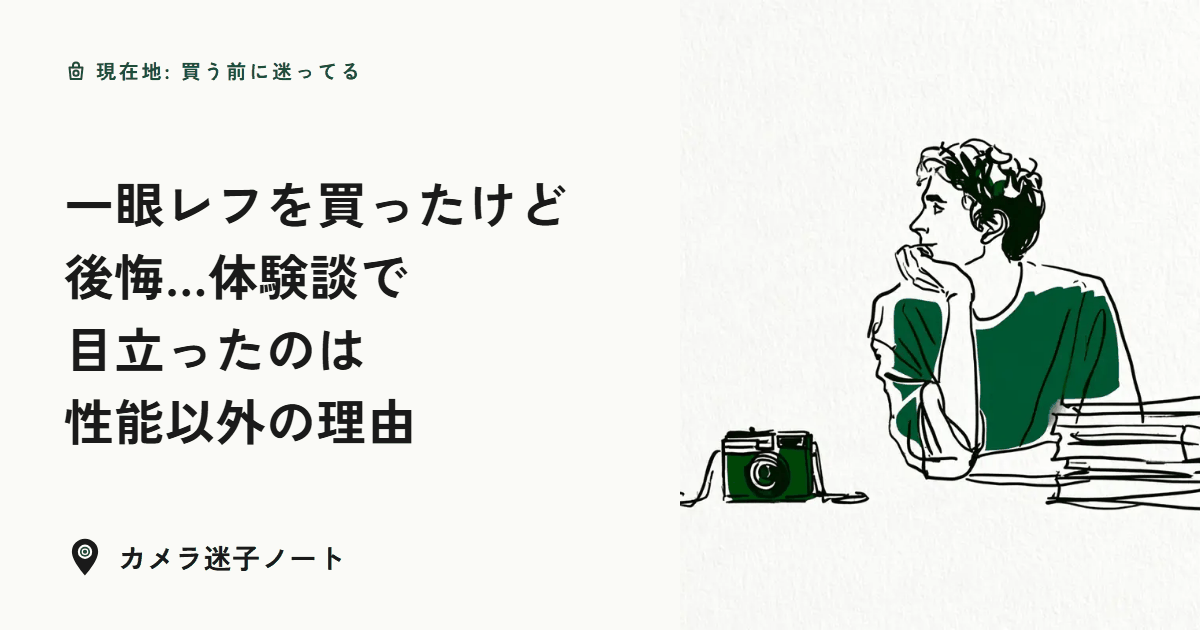
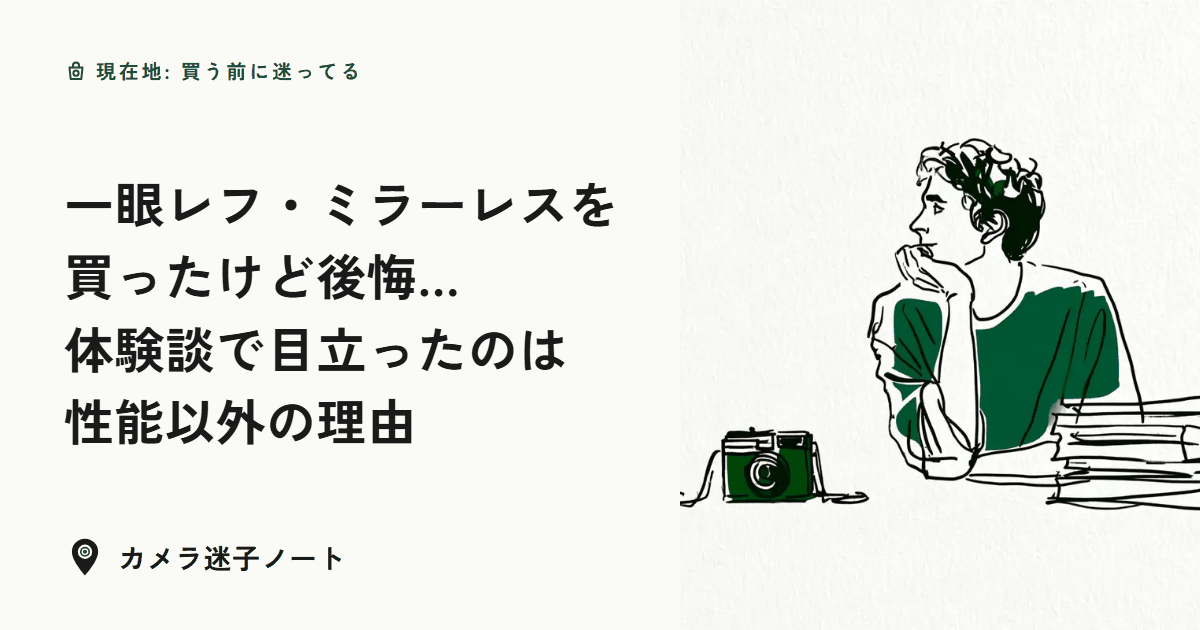
Retitle koukai-koe to include mirrorless, link erabikata from koukai-koe/yametoke/omoi, omoi description mentions spec weights

Changed region(s): [[0.0308, 0.5127, 0.4625, 0.6032], [0.0308, 0.3921, 0.37, 0.4825], [0.2158, 0.2714, 0.5242, 0.3619]]

diff --git a/koukai-koe/index.html b/koukai-koe/index.html
@@ -4,12 +4,12 @@
 <meta charset="UTF-8">
 <meta name="viewport" content="width=device-width, initial-scale=1.0">
 <meta http-equiv="Content-Security-Policy" content="default-src 'self'; script-src 'self' 'unsafe-inline' https://www.googletagmanager.com; style-src 'self' 'unsafe-inline' https://fonts.googleapis.com; font-src https://fonts.gstatic.com; img-src 'self' data: https://*.google-analytics.com https://www.googletagmanager.com https://*.a8.net; connect-src 'self' https://www.google-analytics.com https://*.google-analytics.com https://*.analytics.google.com https://www.googletagmanager.com; object-src 'none'; base-uri 'self'">
-<title>一眼レフを買ったけど後悔…体験談で目立ったのは性能以外の理由|カメラ迷子ノート</title>
+<title>一眼レフ・ミラーレスを買ったけど後悔…体験談で目立ったのは性能以外の理由|カメラ迷子ノート</title>
 <meta name="description" content="一眼レフ・ミラーレスを買って後悔した人の体験談を読むと、目立ったのは性能より買った時の気持ちや暮らしとの合い方でした。買う前に考えたいことと、買ったあとの選択肢も。運営者はカメラを持たず、声を集めて整理しています。">
 <link rel="canonical" href="https://uuhai0625.github.io/camera-maigo-note/koukai-koe/">
 <meta property="og:type" content="article">
 <meta property="og:site_name" content="カメラ迷子ノート">
-<meta property="og:title" content="一眼レフを買ったけど後悔…体験談で目立ったのは性能以外の理由|カメラ迷子ノート">
+<meta property="og:title" content="一眼レフ・ミラーレスを買ったけど後悔…体験談で目立ったのは性能以外の理由|カメラ迷子ノート">
 <meta property="og:description" content="一眼レフ・ミラーレスを買って後悔した人の体験談を読むと、目立ったのは性能より買った時の気持ちや暮らしとの合い方でした。買う前に考えたいことと、買ったあとの選択肢も。運営者はカメラを持たず、声を集めて整理しています。">
 <meta property="og:url" content="https://uuhai0625.github.io/camera-maigo-note/koukai-koe/">
 <meta property="og:locale" content="ja_JP">
@@ -27,7 +27,7 @@
 <link rel="stylesheet" href="../style.css">
 <script src="../ga.js" defer></script>
 <script type="application/ld+json">
-{"@context": "https://schema.org", "@graph": [{"@type": "Article", "headline": "一眼レフを買ったけど後悔…体験談で目立ったのは性能以外の理由", "description": "一眼レフ・ミラーレスを買って後悔した人の体験談を読むと、目立ったのは性能より買った時の気持ちや暮らしとの合い方でした。買う前に考えたいことと、買ったあとの選択肢も。運営者はカメラを持たず、声を集めて整理しています。", "url": "https://uuhai0625.github.io/camera-maigo-note/koukai-koe/", "mainEntityOfPage": "https://uuhai0625.github.io/camera-maigo-note/koukai-koe/", "datePublished": "2026-10-01T09:00:00+09:00", "dateModified": "2026-10-15T09:00:00+09:00", "inLanguage": "ja", "author": {"@type": "Organization", "name": "カメラ迷子ノート", "url": "https://uuhai0625.github.io/camera-maigo-note/about/"}, "publisher": {"@type": "Organization", "name": "カメラ迷子ノート", "url": "https://uuhai0625.github.io/camera-maigo-note/", "logo": {"@type": "ImageObject", "url": "https://uuhai0625.github.io/camera-maigo-note/images/logo-square-512.png"}}, "image": "https://uuhai0625.github.io/camera-maigo-note/koukai-koe/ogp.png"}, {"@type": "BreadcrumbList", "itemListElement": [{"@type": "ListItem", "position": 1, "name": "カメラ迷子ノート", "item": "https://uuhai0625.github.io/camera-maigo-note/"}, {"@type": "ListItem", "position": 2, "name": "買う前に迷ってる", "item": "https://uuhai0625.github.io/camera-maigo-note/#before"}, {"@type": "ListItem", "position": 3, "name": "一眼レフを買ったけど後悔…体験談で目立ったのは性能以外の理由", "item": "https://uuhai0625.github.io/camera-maigo-note/koukai-koe/"}]}]}
+{"@context": "https://schema.org", "@graph": [{"@type": "Article", "headline": "一眼レフ・ミラーレスを買ったけど後悔…体験談で目立ったのは性能以外の理由", "description": "一眼レフ・ミラーレスを買って後悔した人の体験談を読むと、目立ったのは性能より買った時の気持ちや暮らしとの合い方でした。買う前に考えたいことと、買ったあとの選択肢も。運営者はカメラを持たず、声を集めて整理しています。", "url": "https://uuhai0625.github.io/camera-maigo-note/koukai-koe/", "mainEntityOfPage": "https://uuhai0625.github.io/camera-maigo-note/koukai-koe/", "datePublished": "2026-10-01T09:00:00+09:00", "dateModified": "2026-10-15T09:00:00+09:00", "inLanguage": "ja", "author": {"@type": "Organization", "name": "カメラ迷子ノート", "url": "https://uuhai0625.github.io/camera-maigo-note/about/"}, "publisher": {"@type": "Organization", "name": "カメラ迷子ノート", "url": "https://uuhai0625.github.io/camera-maigo-note/", "logo": {"@type": "ImageObject", "url": "https://uuhai0625.github.io/camera-maigo-note/images/logo-square-512.png"}}, "image": "https://uuhai0625.github.io/camera-maigo-note/koukai-koe/ogp.png"}, {"@type": "BreadcrumbList", "itemListElement": [{"@type": "ListItem", "position": 1, "name": "カメラ迷子ノート", "item": "https://uuhai0625.github.io/camera-maigo-note/"}, {"@type": "ListItem", "position": 2, "name": "買う前に迷ってる", "item": "https://uuhai0625.github.io/camera-maigo-note/#before"}, {"@type": "ListItem", "position": 3, "name": "一眼レフ・ミラーレスを買ったけど後悔…体験談で目立ったのは性能以外の理由", "item": "https://uuhai0625.github.io/camera-maigo-note/koukai-koe/"}]}]}
 </script>
 </head>
 <body>
@@ -45,7 +45,7 @@
 <p class="breadcrumb"><a href="../">カメラ迷子ノート</a> › <a href="../#before">買う前に迷ってる</a></p>
 <p class="ad-notice">この記事には広告(アフィリエイトリンク)が含まれます。</p>
 <p class="here"><svg class="icon" width="14" height="14" viewBox="0 0 24 24" fill="none" stroke="currentColor" stroke-width="2" stroke-linecap="round" stroke-linejoin="round" aria-hidden="true"><path d="M5.5 8.5h13l-1.2 11.5H6.7z"/><path d="M9 8.5V6.5a3 3 0 0 1 6 0v2"/><circle cx="12" cy="14.2" r="2.6"/></svg>現在地: 買う前に迷ってる</p>
-<h1>一眼レフを買ったけど後悔…体験談で目立ったのは性能以外の理由</h1>
+<h1>一眼レフ・ミラーレスを買ったけど後悔…体験談で目立ったのは性能以外の理由</h1>
 <p class="meta">公開 2026-10-01 / 更新 2026-10-15</p>
 <figure class="pic eyecatch"><img src="../images/illust/eye-koukai.webp" srcset="../images/illust/eye-koukai-m.webp 720w, ../images/illust/eye-koukai.webp 1200w" sizes="(max-width: 760px) calc(100vw - 32px), 720px" width="1200" height="800" alt="本の横に置いたままのカメラを見ながら、ほおづえをついて考えている人の線画イラスト" fetchpriority="high" decoding="async"></figure>
 <p>一眼レフやミラーレスを買って後悔した人の体験談を読んでいくと、性能が足りなかったという話は少なく、買った時の気持ちや、暮らしとの合い方の話が目立ちました。買うか迷っている人にも、買ってしまって迷っている人にも向けて、体験談と一般論の記事を合わせて11件、理由を分けて数えました。</p>
@@ -133,6 +133,7 @@
 <h2 id="kaumae">買う前に確かめておきたいこと(体験談を質問にしました)</h2>
 <p>体験談の人たちが振り返っていたことを、自分への質問に変えてみました。答えが出なくても、それ自体が1つの材料です。誰の振り返りから来たかを添えています。最初の一台を何で決めたか(見た目・安さ・店頭・すすめなど決め手ごとの声と、始める順番)は、<a href="../saisho-ichidai/">初めてのカメラ、最初の一台は何で決めた?</a>にまとめました。</p>
 <ul><li><strong>憧れの先に、撮ってみたいものが1つ浮かぶか。</strong> 憧れやブームで買った人が8人中4人いました。憧れそのものは悪くないのですが、その先に撮りたいものがあったかどうかは、4人の話を読むと気になるところです。</li><li><strong>使わない日が続いても、カメラを見て平気か。</strong> すぎっちさんの後悔は、使わなかった自分に向いていました。毎日撮る前提を置かず、月に数回でも許せるかを先に考えてみる、という順番です。</li><li><strong>カバンに入れて出かける場面を、1つ思い浮かべてみる。</strong> 重さで持ち出さなくなった人が4人いました。ヒガシーサーさんは、持ち出さなかった日の写真は1枚も残らない、という考えから、写りより持ち出す回数を優先しています。</li><li><strong>スマホで困った瞬間が、1つ浮かぶか。</strong> カメラを続けているヒガシーサーさんでも、普段の記録の9割はスマホだそうです。スマホとの差の話は、<a href="../smartphone-jubun/">スマホで十分、一眼はいらない?</a>の記事に譲ります。</li><li><strong>レンズまで入れた総額を、先に決めてみる。</strong> レンズを買い足す余裕がなかった人が体験談にも、総額で考えるべきという声が一般論にもありました。ヒガシーサーさんは、本体とレンズ2本までで上限を決める派です。周辺の小物は、<a href="../accessory/">いらなかった声も品目別に</a>まとめました。</li><li><strong>店頭で手に取って、構えてみたか。</strong> 2017年の質問者は、大きさと見た目に後悔しました。同じ相談の回答者は、かさばるかは個人差なので店で実機を触る、と助言しています。</li><li><strong>小さいカメラで足りないか、先に考えてみる。</strong> 2017年の質問者は、旅先の何気ない写真が中心ならコンデジで足りたかもしれない、と振り返っています。</li><li><strong>生活が変わっても、持ち続けたいか。</strong> 新しい趣味や就職で使わなくなった人がいました。数年先の自分を少しだけ想像してみるのも、1つの材料です。</li></ul>
+<p>買う前に確かめることを、スマホで足りるか・続きそうか・重さ・決め手・機種・中古の順に並べたページもあります(<a href="../erabikata/">カメラを買うか迷ったら読む順番</a>)。</p>
 <h2>もう買って後悔している人へ:体験談の人たちがしたこと</h2>
 <figure class="pic"><img src="../images/photo/koukai-tana.webp" srcset="../images/photo/koukai-tana-m.webp 720w, ../images/photo/koukai-tana.webp 1200w" sizes="(max-width: 760px) calc(100vw - 32px), 720px" width="1200" height="800" alt="棚に並べて置かれたカメラ" loading="lazy" decoding="async"><figcaption>棚に置かれたカメラ。 イメージ写真: <a href="https://unsplash.com/photos/s1TgBqg62OU" target="_blank" rel="noopener">Art Lasovsky / Unsplash</a></figcaption></figure>
 <p>もう買ってしまって迷っている人向けに、体験談の人たちがそのあとどうしたかを並べます。こういう道があった、という並べ方です。</p>

diff --git a/omoi/index.html b/omoi/index.html
@@ -5,12 +5,12 @@
 <meta name="viewport" content="width=device-width, initial-scale=1.0">
 <meta http-equiv="Content-Security-Policy" content="default-src 'self'; script-src 'self' 'unsafe-inline' https://www.googletagmanager.com; style-src 'self' 'unsafe-inline' https://fonts.googleapis.com; font-src https://fonts.gstatic.com; img-src 'self' data: https://*.google-analytics.com https://www.googletagmanager.com https://*.a8.net; connect-src 'self' https://www.google-analytics.com https://*.google-analytics.com https://*.analytics.google.com https://www.googletagmanager.com; object-src 'none'; base-uri 'self'">
 <title>一眼レフが重くて使わなくなった…軽くしても持ち歩かない人も|カメラ迷子ノート</title>
-<meta name="description" content="一眼レフが重くて使わなくなった人のその後は、軽い機種でも持ち歩かなかった人も、撮る日だけ持つ使い分けの人もいました。置いておいて戻った人、売った人、買い戻した人の声と、売る前・買う前に確かめることも。">
+<meta name="description" content="一眼レフが重くて使わなくなった人のその後は、軽い機種でも持ち歩かなかった人も、撮る日だけ持つ使い分けの人もいました。置いておいて戻った人、売った人、買い戻した人の声と、仕様表の重さ(バッテリー込み・本体のみ)の見方、売る前・買う前に確かめることも。">
 <link rel="canonical" href="https://uuhai0625.github.io/camera-maigo-note/omoi/">
 <meta property="og:type" content="article">
 <meta property="og:site_name" content="カメラ迷子ノート">
 <meta property="og:title" content="一眼レフが重くて使わなくなった…軽くしても持ち歩かない人も|カメラ迷子ノート">
-<meta property="og:description" content="一眼レフが重くて使わなくなった人のその後は、軽い機種でも持ち歩かなかった人も、撮る日だけ持つ使い分けの人もいました。置いておいて戻った人、売った人、買い戻した人の声と、売る前・買う前に確かめることも。">
+<meta property="og:description" content="一眼レフが重くて使わなくなった人のその後は、軽い機種でも持ち歩かなかった人も、撮る日だけ持つ使い分けの人もいました。置いておいて戻った人、売った人、買い戻した人の声と、仕様表の重さ(バッテリー込み・本体のみ)の見方、売る前・買う前に確かめることも。">
 <meta property="og:url" content="https://uuhai0625.github.io/camera-maigo-note/omoi/">
 <meta property="og:locale" content="ja_JP">
 <meta property="og:image" content="https://uuhai0625.github.io/camera-maigo-note/omoi/ogp.png">
@@ -27,7 +27,7 @@
 <link rel="stylesheet" href="../style.css">
 <script src="../ga.js" defer></script>
 <script type="application/ld+json">
-{"@context": "https://schema.org", "@graph": [{"@type": "Article", "headline": "一眼レフが重くて使わなくなった…軽くしても持ち歩かない人も", "description": "一眼レフが重くて使わなくなった人のその後は、軽い機種でも持ち歩かなかった人も、撮る日だけ持つ使い分けの人もいました。置いておいて戻った人、売った人、買い戻した人の声と、売る前・買う前に確かめることも。", "url": "https://uuhai0625.github.io/camera-maigo-note/omoi/", "mainEntityOfPage": "https://uuhai0625.github.io/camera-maigo-note/omoi/", "datePublished": "2026-10-03T09:00:00+09:00", "dateModified": "2026-10-14T09:00:00+09:00", "inLanguage": "ja", "author": {"@type": "Organization", "name": "カメラ迷子ノート", "url": "https://uuhai0625.github.io/camera-maigo-note/about/"}, "publisher": {"@type": "Organization", "name": "カメラ迷子ノート", "url": "https://uuhai0625.github.io/camera-maigo-note/", "logo": {"@type": "ImageObject", "url": "https://uuhai0625.github.io/camera-maigo-note/images/logo-square-512.png"}}, "image": "https://uuhai0625.github.io/camera-maigo-note/omoi/ogp.png"}, {"@type": "BreadcrumbList", "itemListElement": [{"@type": "ListItem", "position": 1, "name": "カメラ迷子ノート", "item": "https://uuhai0625.github.io/camera-maigo-note/"}, {"@type": "ListItem", "position": 2, "name": "買ったけど使えてない", "item": "https://uuhai0625.github.io/camera-maigo-note/#stuck"}, {"@type": "ListItem", "position": 3, "name": "一眼レフが重くて使わなくなった…軽くしても持ち歩かない人も", "item": "https://uuhai0625.github.io/camera-maigo-note/omoi/"}]}]}
+{"@context": "https://schema.org", "@graph": [{"@type": "Article", "headline": "一眼レフが重くて使わなくなった…軽くしても持ち歩かない人も", "description": "一眼レフが重くて使わなくなった人のその後は、軽い機種でも持ち歩かなかった人も、撮る日だけ持つ使い分けの人もいました。置いておいて戻った人、売った人、買い戻した人の声と、仕様表の重さ(バッテリー込み・本体のみ)の見方、売る前・買う前に確かめることも。", "url": "https://uuhai0625.github.io/camera-maigo-note/omoi/", "mainEntityOfPage": "https://uuhai0625.github.io/camera-maigo-note/omoi/", "datePublished": "2026-10-03T09:00:00+09:00", "dateModified": "2026-10-15T09:00:00+09:00", "inLanguage": "ja", "author": {"@type": "Organization", "name": "カメラ迷子ノート", "url": "https://uuhai0625.github.io/camera-maigo-note/about/"}, "publisher": {"@type": "Organization", "name": "カメラ迷子ノート", "url": "https://uuhai0625.github.io/camera-maigo-note/", "logo": {"@type": "ImageObject", "url": "https://uuhai0625.github.io/camera-maigo-note/images/logo-square-512.png"}}, "image": "https://uuhai0625.github.io/camera-maigo-note/omoi/ogp.png"}, {"@type": "BreadcrumbList", "itemListElement": [{"@type": "ListItem", "position": 1, "name": "カメラ迷子ノート", "item": "https://uuhai0625.github.io/camera-maigo-note/"}, {"@type": "ListItem", "position": 2, "name": "買ったけど使えてない", "item": "https://uuhai0625.github.io/camera-maigo-note/#stuck"}, {"@type": "ListItem", "position": 3, "name": "一眼レフが重くて使わなくなった…軽くしても持ち歩かない人も", "item": "https://uuhai0625.github.io/camera-maigo-note/omoi/"}]}]}
 </script>
 </head>
 <body>
@@ -46,10 +46,10 @@
 <p class="ad-notice">この記事には広告(アフィリエイトリンク)が含まれます。</p>
 <p class="here"><svg class="icon" width="14" height="14" viewBox="0 0 24 24" fill="none" stroke="currentColor" stroke-width="2" stroke-linecap="round" stroke-linejoin="round" aria-hidden="true"><path d="M4 8h3l1.6-2.2h6.8L17 8h3a1 1 0 0 1 1 1v9a1 1 0 0 1-1 1H4a1 1 0 0 1-1-1V9a1 1 0 0 1 1-1z"/><circle cx="12" cy="13" r="3.8"/><path d="M11 11.6v2.8M13 11.6v2.8"/></svg>現在地: 買ったけど使えてない</p>
 <h1>一眼レフが重くて使わなくなった…軽くしても持ち歩かない人も</h1>
-<p class="meta">公開 2026-10-03 / 更新 2026-10-14</p>
+<p class="meta">公開 2026-10-03 / 更新 2026-10-15</p>
 <figure class="pic eyecatch"><img src="../images/illust/eye-omoi.webp" srcset="../images/illust/eye-omoi-m.webp 720w, ../images/illust/eye-omoi.webp 1200w" sizes="(max-width: 760px) calc(100vw - 32px), 720px" width="1200" height="800" alt="大きなレンズを付けたカメラを床に置いたまま、トートバッグだけで出かけていく人の線画イラスト" fetchpriority="high" decoding="async"></figure>
 <p>一眼レフ(鏡を使ってのぞくタイプのカメラ。<a class="term" href="../yougo/#ichigan-mirrorless">言葉の意味</a>)が重くて使わなくなった人のその後を読むと、軽い機種に替えても持ち歩かなかった人がいました。撮りに行く日だけ重い方を持つ使い分けの人も、重いまま続けている人もいます。知恵袋・価格.com・note・個人ブログで、重いと感じた人のその後を探して読みました(私はカメラを持っていません)。</p>
-<p>すでに持っている人は<a href="#motteiru">売る?置いておく?</a>へ、買う前の人は<a href="#kaumae">確かめること</a>へ、全体は<a href="#wakaremichi">早見表</a>へどうぞ。</p>
+<p>すでに持っている人は<a href="#motteiru">売る?置いておく?</a>へ、買う前の人は<a href="#kaumae">確かめること</a>へ、全体は<a href="#wakaremichi">早見表</a>へどうぞ。重さ以外も含めて買う前に確かめることは、<a href="../erabikata/">カメラを買うか迷ったら読む順番</a>に並べています。</p>
 <h2 id="wakaremichi">重くて使わなくなった人のその後は7通り(早見表)</h2>
 <figure class="fig">
   <svg viewBox="0 0 340 508" role="img" aria-label="重いと感じたあとのその後を7つに分けた図。目的の日だけ重い方を持つ、軽いカメラに替えて続いた、軽くしてもまた分かれた、重くても続けている、置いておいてまた使い始めた(理由は重さ以外の2人)、売って身軽になった、手放して後悔・買い戻した(理由は重さ以外)。分け方は私の読み方。">
@@ -215,7 +215,7 @@
 <p>何グラムなら持ち歩くかは、人で違いました。m310さんは約1kgの一眼レフを持ち歩き、Lifewareさんの理想はコンデジで300g前後、ミラーレスはレンズ込み500g前後が上限です。重いのがボディなのか、レンズなのか、バッグから出す気分なのかも、人で違っていました。次に重いと感じた日に、自分はそのどれなのかを1回確かめてみると、<a href="#wakaremichi">冒頭の表</a>のどの行に近いかが見えてくると思います。</p>
 <section class="next" aria-labelledby="next-h">
   <h2 id="next-h">次に読むなら</h2>
-  <ul><li><a href="../koukai-koe/">一眼レフを買ったけど後悔…体験談で目立ったのは性能以外の理由</a></li><li><a href="../accessory/">カメラアクセサリーは初心者に必要?いらなかった声も品目別に</a></li><li><a href="../#stuck">「買ったけど使えてない」の記事をもっと見る</a></li></ul>
+  <ul><li><a href="../koukai-koe/">一眼レフ・ミラーレスを買ったけど後悔…体験談で目立ったのは性能以外の理由</a></li><li><a href="../accessory/">カメラアクセサリーは初心者に必要?いらなかった声も品目別に</a></li><li><a href="../#stuck">「買ったけど使えてない」の記事をもっと見る</a></li></ul>
 </section>
 <h2 id="yonda">この記事で読んだ37件</h2>
 <p>本文で使った29件、41人の数には入れたが本文では使わなかった3件、持ち方の相談の確認に読んだ4件、事業者1件に分けています。</p>

diff --git a/saisho-ichidai/index.html b/saisho-ichidai/index.html
@@ -49,7 +49,7 @@
 <p class="meta">公開 2026-10-03 / 更新 2026-10-15</p>
 <figure class="pic eyecatch"><img src="../images/illust/eye-saisho.webp" srcset="../images/illust/eye-saisho-m.webp 720w, ../images/illust/eye-saisho.webp 1200w" sizes="(max-width: 760px) calc(100vw - 32px), 720px" width="1200" height="800" alt="机に並べた2台のカメラとスマホを前に、ほおづえをついて考えている人の線画イラスト" fetchpriority="high" decoding="async"></figure>
 <p>初めてのカメラ、最初の一台を何で決めたかと、その後どうなったかを、64人分読んで並べました。見た目で決めた人にも、安さで決めた人にも、満足した人と後悔した人の両方がいます。同じ決め手でも割れたので、この決め手なら大丈夫、とは言えません。代わりに、人によって分かれていた点を、自分の条件で確かめる問いにしました。</p>
-<p>私はカメラを持っていないので、note・個人ブログ・知恵袋で、自分(または子ども)の最初の1台について書いた人の声を集めて整理する側です。買ったあとに後悔した理由そのものは、<a href="../koukai-koe/">一眼レフを買ったけど後悔…</a>にあるので、ここでは買う前の決め方と、始める順番を扱います。</p>
+<p>私はカメラを持っていないので、note・個人ブログ・知恵袋で、自分(または子ども)の最初の1台について書いた人の声を集めて整理する側です。買ったあとに後悔した理由そのものは、<a href="../koukai-koe/">一眼レフ・ミラーレスを買ったけど後悔…</a>にあるので、ここでは買う前の決め方と、始める順番を扱います。</p>
 <ul><li>全体を見たい → <a href="#hayami">決め手別の早見表</a>と<a href="#katta">何を買ったかの集計</a></li><li>買う前に迷っている → <a href="#kiku">分かれ目を確かめる問い</a></li><li>順番だけ知りたい → <a href="#junban">お金のかからない順に試す</a></li><li>スマホで足りる?重さは?中古は?も順に見たい → <a href="../erabikata/">カメラを買うか迷ったら読む順番</a></li></ul>
 <h2 id="hayami">初めてのカメラを何で決めた? 決め手別の早見表</h2>
 <p>分け方は私の読み方で、1人が2つ以上の決め手に入ることもあります。人数は、その決め手を書いた人の数です。名前と年は、各節の本文に書きました。</p>
@@ -65,7 +65,7 @@
 <p>範囲のずれもあります。コンデジから移って初めてレンズ交換式(レンズを付け替えられるカメラ)を買った人が3人、親が子どもに選んだ例が2人、10年離れて戻った人が1人。フィルム時代の話が9人、いつの話か分からない人が8人いて、本文では年を添えました。</p>
 <h2 id="kiku">買う前に、分かれ目を自分で確かめる</h2>
 <p>決め手より、その人の条件で結果が分かれていました。分かれていた点をそのまま問いにしたもので、答えが出なくても、どちらにも行き先があります。</p>
-<ol><li><strong>見た目で選びたい気持ちがある?</strong> ある→<a href="#mitame">見た目で決めた人の両方の声</a>/ない→<a href="#toritai">撮りたいもの・機能で決めた人</a></li><li><strong>誰かにすすめられている?</strong> いる→<a href="#susume">すすめられて決めた人</a>/いない→自分で決める材料は<a href="#hayami">早見表</a>に</li><li><strong>買う前に試したい?</strong> 試したい→<a href="#step-tenpo">店頭で持つ</a>か<a href="#step-kariru">借りる</a>/すぐ買いたい→<a href="#step-kau">何を買う?</a>へ</li><li><strong>スマホで困った場面・持ち出す日・レンズ込みの予算は?</strong> この3つは<a href="../koukai-koe/">一眼レフを買ったけど後悔…の質問</a>と重なるので、そちらに。どれも浮かばない人の行き先は<a href="#step-sumaho">スマホで撮ってみる</a>の節にあります</li></ol>
+<ol><li><strong>見た目で選びたい気持ちがある?</strong> ある→<a href="#mitame">見た目で決めた人の両方の声</a>/ない→<a href="#toritai">撮りたいもの・機能で決めた人</a></li><li><strong>誰かにすすめられている?</strong> いる→<a href="#susume">すすめられて決めた人</a>/いない→自分で決める材料は<a href="#hayami">早見表</a>に</li><li><strong>買う前に試したい?</strong> 試したい→<a href="#step-tenpo">店頭で持つ</a>か<a href="#step-kariru">借りる</a>/すぐ買いたい→<a href="#step-kau">何を買う?</a>へ</li><li><strong>スマホで困った場面・持ち出す日・レンズ込みの予算は?</strong> この3つは<a href="../koukai-koe/">一眼レフ・ミラーレスを買ったけど後悔…の質問</a>と重なるので、そちらに。どれも浮かばない人の行き先は<a href="#step-sumaho">スマホで撮ってみる</a>の節にあります</li></ol>
 <h2 id="mitame">見た目で決めた人: 後悔なしの人と、重くて持ち出さなくなった人</h2>
 <p>見た目で決めた14人は、私の分け方では満足した人が多めでした(分け方で順位は変わります)。19歳で初めてのカメラを中古で買ったばんりばさんの決め手は、見た目です。</p>
 <figure class="voice">
@@ -180,7 +180,7 @@
 </figure>
 <section class="next" aria-labelledby="next-h">
   <h2 id="next-h">次に読むなら</h2>
-  <ul><li><a href="../erabikata/">カメラを買うか迷ったら読む順番 ― 買う前に確かめる6つ</a></li><li><a href="../koukai-koe/">一眼レフを買ったけど後悔…体験談で目立ったのは性能以外の理由</a></li><li><a href="../#before">「買う前に迷ってる」の記事をもっと見る</a></li></ul>
+  <ul><li><a href="../erabikata/">カメラを買うか迷ったら読む順番 ― 買う前に確かめる6つ</a></li><li><a href="../koukai-koe/">一眼レフ・ミラーレスを買ったけど後悔…体験談で目立ったのは性能以外の理由</a></li><li><a href="../#before">「買う前に迷ってる」の記事をもっと見る</a></li></ul>
 </section>
 <h2 id="yonda">この記事で読んだ74件</h2>
 <p>体験談49件(64人の出典。本文で使わなかったものには注記)、体験談には数えなかった一般論・助言15件、事業者6件、検索上位の傾向を見るために読んだ4件に分けています。</p>

diff --git a/yametoke/index.html b/yametoke/index.html
@@ -140,8 +140,8 @@
 <p>続けた人だけが正しかった、という話ではないと思います。</p>
 <h2 id="kaumae">これから始める人が、先に確かめておけること</h2>
 <p>検索でここに来た人の多くは、まだ買う前だと思います。集めた理由を、そのまま自分への質問に変えてみると、こんな感じになります。答えが出なくても、それ自体が1つの材料です。</p>
-<ul><li><strong>撮りたいものと、写真の行き先を言えるか。</strong> 動機が「趣味がほしいから」だけだと、撮るものがなくなったときに止まりやすい、という指摘が一般論の記事(沼探)にありました。撮ったあとの写真をどうするか(プリント、家族に送る、SNS、自分で見返す)まで言えると、続いた人の例に近づきます。</li><li><strong>週に何回、持ち出せそうか。</strong> 重さの理由は「持ち出さない日は一枚も残らない」に行き着きます。通勤や休日の動きの中に、カメラを持つ時間があるかを想像してみてください。</li><li><strong>スマホで足りない場面を、具体的に言えるか。</strong> 20年続けている人でも普段の記録の9割はスマホ、という例がありました。「スマホでは撮れない何か」が1つでもあるか、で向いている・向いていないの目安が少し見えると思います。</li><li><strong>お金の目安を知っているか。</strong> モノスクラムの方は、入門向けのミラーレスでも10万円以上かかると書いていました。本体のあとに、レンズや周辺機器が増えていくことも織り込んでおくと、あとから驚きにくいです。</li><li><strong>買って後悔した人の声も読んでおく。</strong> 一眼レフやミラーレスを買って後悔した人の体験談は、<a href="../koukai-koe/">一眼レフを買ったけど後悔…体験談で目立ったのは性能以外の理由</a>にまとめています。</li><li><strong>比べる相手がいると疲れやすいか。</strong> SNSで他人の写真や機材と比べて疲れた、という声が体験談8件中4件にありました。自分がそのタイプだと思うなら、最初から見せる場所を決めておくのも1つの手です。</li></ul>
-<p>それでも始めると決めた人が、最初の一台を何で決めたかは<a href="../saisho-ichidai/">初めてのカメラ、最初の一台は何で決めた?</a>に64人分まとめました。</p>
+<ul><li><strong>撮りたいものと、写真の行き先を言えるか。</strong> 動機が「趣味がほしいから」だけだと、撮るものがなくなったときに止まりやすい、という指摘が一般論の記事(沼探)にありました。撮ったあとの写真をどうするか(プリント、家族に送る、SNS、自分で見返す)まで言えると、続いた人の例に近づきます。</li><li><strong>週に何回、持ち出せそうか。</strong> 重さの理由は「持ち出さない日は一枚も残らない」に行き着きます。通勤や休日の動きの中に、カメラを持つ時間があるかを想像してみてください。</li><li><strong>スマホで足りない場面を、具体的に言えるか。</strong> 20年続けている人でも普段の記録の9割はスマホ、という例がありました。「スマホでは撮れない何か」が1つでもあるか、で向いている・向いていないの目安が少し見えると思います。</li><li><strong>お金の目安を知っているか。</strong> モノスクラムの方は、入門向けのミラーレスでも10万円以上かかると書いていました。本体のあとに、レンズや周辺機器が増えていくことも織り込んでおくと、あとから驚きにくいです。</li><li><strong>買って後悔した人の声も読んでおく。</strong> 一眼レフやミラーレスを買って後悔した人の体験談は、<a href="../koukai-koe/">一眼レフ・ミラーレスを買ったけど後悔…体験談で目立ったのは性能以外の理由</a>にまとめています。</li><li><strong>比べる相手がいると疲れやすいか。</strong> SNSで他人の写真や機材と比べて疲れた、という声が体験談8件中4件にありました。自分がそのタイプだと思うなら、最初から見せる場所を決めておくのも1つの手です。</li></ul>
+<p>それでも始めると決めた人が、最初の一台を何で決めたかは<a href="../saisho-ichidai/">初めてのカメラ、最初の一台は何で決めた?</a>に64人分まとめました。買う前に確かめることを順に並べたページは、<a href="../erabikata/">カメラを買うか迷ったら読む順番</a>です。</p>
 <h2>続ける・やめるの間にある選択肢</h2>
 <figure class="pic"><img src="../images/photo/yametoke-bag.webp" srcset="../images/photo/yametoke-bag-m.webp 720w, ../images/photo/yametoke-bag.webp 1200w" sizes="(max-width: 760px) calc(100vw - 32px), 720px" width="1200" height="800" alt="草の上に置かれた帆布のショルダーバッグ" loading="lazy" decoding="async"><figcaption>イメージ写真: <a href="https://unsplash.com/photos/s6M63HPGb5E" target="_blank" rel="noopener">Larry George II / Unsplash</a></figcaption></figure>
 <p>「続ける」か「やめる」かの二択で考えると苦しいのですが、読んだ記事の中には、その間にある選択肢がいくつか出てきました。押しつけるつもりはなく、こういう道もあった、という並べ方です。</p>

diff --git a/yougo/index.html b/yougo/index.html
@@ -143,7 +143,7 @@
 <section id="tebure-hosei">
   <h2>手ブレ補正(レンズ内・ボディ内)</h2>
   <p>カメラが揺れた分を、レンズの中かセンサーを動かして打ち消し、手ブレを減らす仕組み。</p>
-  <p class="term-rel">この言葉が出てくる記事: <a href="../kurai-bure/">暗いところで撮れない…室内・夜にブレる・ザラザラになる原因と対策</a>、<a href="../koukai-koe/">一眼レフを買ったけど後悔…体験談で目立ったのは性能以外の理由</a></p>
+  <p class="term-rel">この言葉が出てくる記事: <a href="../kurai-bure/">暗いところで撮れない…室内・夜にブレる・ザラザラになる原因と対策</a>、<a href="../koukai-koe/">一眼レフ・ミラーレスを買ったけど後悔…体験談で目立ったのは性能以外の理由</a></p>
   <details><summary>もう少し正確に言うと</summary><p class="def">手持ち撮影で起きるカメラの揺れを打ち消し、手ブレを軽減する機能。レンズ内の補正光学系を動かすレンズ内手ブレ補正と、撮像素子を動かすボディ内手ブレ補正がある。補正効果は「○段」で表し、CIPAの規格(CIPA DC-011)が測定方法と表記方法を定めている。一部のメーカーは、ボディとレンズの補正を連動させる協調補正(パナソニック「Dual I.S.」、OM SYSTEM「5軸シンクロ手ぶれ補正」等)を採用している。</p><p class="def-note"><b>注意</b></p><ul class="def"><li>三脚使用時に手ブレ補正を切るべきかどうかは機種によって違う(Canonの用語集は切ることをすすめているが、三脚を自動で検知する機種もある)。</li></ul><ul><li><a href="https://www.cipa.jp/j/std/image-stabilization.html" target="_blank" rel="noopener">CIPA「DC-011 デジタルカメラの手ぶれ補正効果に関する測定方法および表記方法(光学式)」</a></li><li><a href="https://personal.canon.jp/articles/beginner/glossary/teburehosei" target="_blank" rel="noopener">Canon 写真用語集「手ブレ補正」</a></li><li><a href="https://panasonic.jp/dc/dual-is/about.html" target="_blank" rel="noopener">Panasonic「手ブレ補正システム Dual I.S.とは」</a></li><li><a href="https://jp.omsystem.com/product/dslr/om-omd/om/om1/spec.html" target="_blank" rel="noopener">OM SYSTEM「OM-1 主な仕様」(段数の表記条件の例)</a></li></ul></details>
 </section>
 <section id="white-balance">
@@ -189,7 +189,7 @@
 <section id="ichigan-mirrorless">
   <h2>一眼レフとミラーレスの違い</h2>
   <p>一眼レフは「鏡でのぞく」カメラ、ミラーレスは「センサーが見た映像を画面でのぞく」カメラ。</p>
-  <p class="term-rel">この言葉が出てくる記事: <a href="../koukai-koe/">一眼レフを買ったけど後悔…体験談で目立ったのは性能以外の理由</a>、<a href="../smartphone-jubun/">スマホで十分、一眼はいらない?カメラで差が出やすい3つの場面</a></p>
+  <p class="term-rel">この言葉が出てくる記事: <a href="../koukai-koe/">一眼レフ・ミラーレスを買ったけど後悔…体験談で目立ったのは性能以外の理由</a>、<a href="../smartphone-jubun/">スマホで十分、一眼はいらない?カメラで差が出やすい3つの場面</a></p>
   <details><summary>もう少し正確に言うと</summary><p class="def">一眼レフは、レンズから入った光をカメラ内部のミラーで上に反射させ、ペンタプリズム(またはペンタミラー)を通して光学ファインダーに導く構造のカメラ。撮影の瞬間にミラーが上がり、光が撮像素子に届く。ミラーレスは、このミラー(レフレックス)の機構を持たず、撮像素子が受けた像を電子ビューファインダー(EVF)や背面モニターに表示するカメラ。ミラー機構がないぶん、レンズマウントから撮像素子までの距離(フランジバック)を短くでき、小型化しやすい。</p><ul><li><a href="https://nij.nikon.com/learn/phototech/manual/01/01.html" target="_blank" rel="noopener">Nikon「カメラの構造」</a></li><li><a href="https://personal.canon.jp/articles/beginner/glossary/mirrorless" target="_blank" rel="noopener">Canon 写真用語集「ミラーレス」</a></li></ul></details>
 </section>
 <section id="finder">

diff --git a/erabikata/index.html b/erabikata/index.html
@@ -53,7 +53,7 @@
 <ul><li><a href="../smartphone-jubun/#shitsumon">買う前に自分に聞く3つの質問</a>(スマホで十分、一眼はいらない?)</li></ul>
 <h2 id="tsuzuku">2. 続きそう? やめた人と続けている人の理由</h2>
 <p>やめた人・続けている人の声によく出てきた理由は、お金・重さ・撮るものがなくなる・SNSで比べて疲れる・スマホで十分、でした。続けている人が何をしていたかも、同じ記事に並べています。</p>
-<ul><li><a href="../yametoke/#kaumae">これから始める人が、先に確かめておけること</a>(カメラ趣味はやめとけ?)</li><li><a href="../koukai-koe/#kaumae">買う前に確かめておきたいこと</a>(一眼レフを買ったけど後悔…)</li></ul>
+<ul><li><a href="../yametoke/#kaumae">これから始める人が、先に確かめておけること</a>(カメラ趣味はやめとけ?)</li><li><a href="../koukai-koe/#kaumae">買う前に確かめておきたいこと</a>(一眼レフ・ミラーレスを買ったけど後悔…)</li></ul>
 <h2 id="omosa">3. 重さは大丈夫? 持ち出す自分を想像できるか</h2>
 <p>重さで使わなくなった人の中には、軽い機種に替えて続いた人も、替えても持ち歩かなかった人もいました。メーカーの仕様表(性能の一覧)には、バッテリーとメモリーカードを含む重さと、本体だけの重さの2つが書かれていることがあります。</p>
 <ul><li><a href="../omoi/#kaumae">まだ買う前の人へ: 重さで後悔しないために確かめること</a></li><li><a href="../omoi/#shitsuryo">仕様表の質量は2通り</a></li></ul>

diff --git a/index.html b/index.html
@@ -63,7 +63,7 @@
     <p>本当にいる? スマホで十分? 買って後悔した人の声から考える</p>
     <ul class="stops">
       <li><a href="erabikata/">カメラを買うか迷ったら読む順番 ― 買う前に確かめる6つ</a></li>
-      <li class="has-thumb"><a href="koukai-koe/"><img src="images/illust/eye-koukai-s.webp" width="360" height="240" alt="" loading="lazy" decoding="async"><span>一眼レフを買ったけど後悔…体験談で目立ったのは性能以外の理由</span></a></li>
+      <li class="has-thumb"><a href="koukai-koe/"><img src="images/illust/eye-koukai-s.webp" width="360" height="240" alt="" loading="lazy" decoding="async"><span>一眼レフ・ミラーレスを買ったけど後悔…体験談で目立ったのは性能以外の理由</span></a></li>
       <li class="has-thumb"><a href="smartphone-jubun/"><img src="images/illust/eye-smart-s.webp" width="360" height="240" alt="" loading="lazy" decoding="async"><span>スマホで十分、一眼はいらない?カメラで差が出やすい3つの場面</span></a></li>
       <li class="has-thumb"><a href="saisho-ichidai/"><img src="images/illust/eye-saisho-s.webp" width="360" height="240" alt="" loading="lazy" decoding="async"><span>初めてのカメラ、最初の一台は何で決めた?後悔した人・満足した人の声</span></a></li>
       <li class="has-thumb"><a href="kisyu-koe/"><img src="images/illust/eye-kisyu-s.webp" width="360" height="240" alt="" loading="lazy" decoding="async"><span>初心者が最初に買ったカメラ、口コミで多かった機種と後悔の声</span></a></li>
